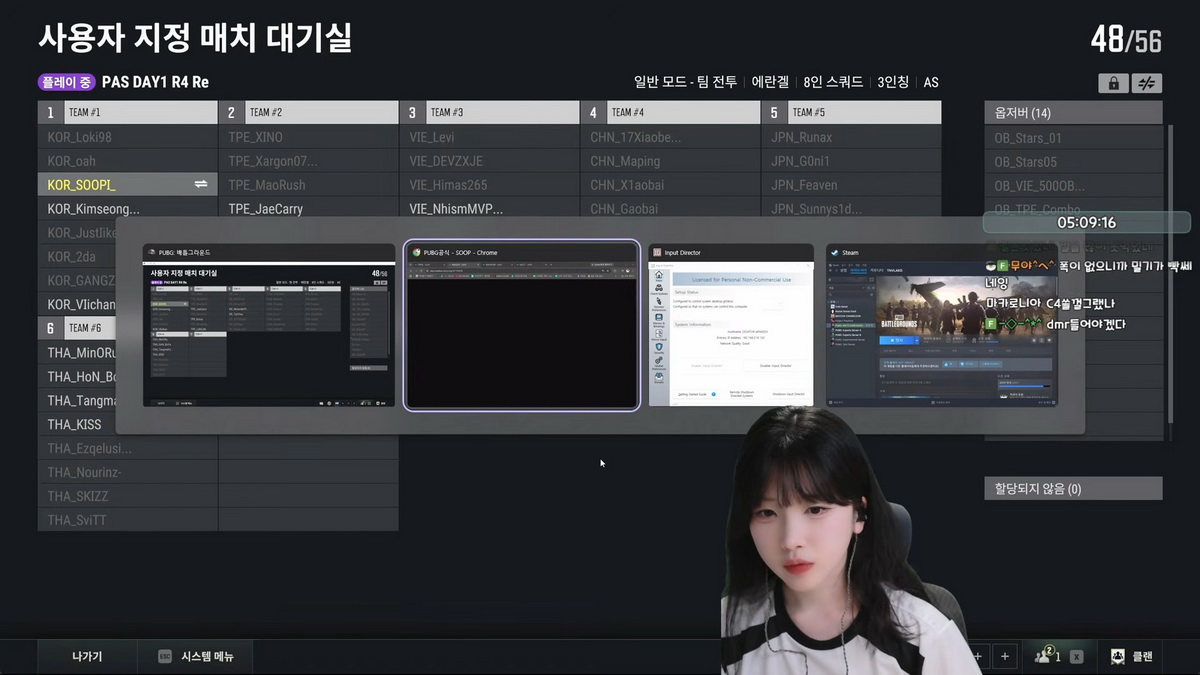
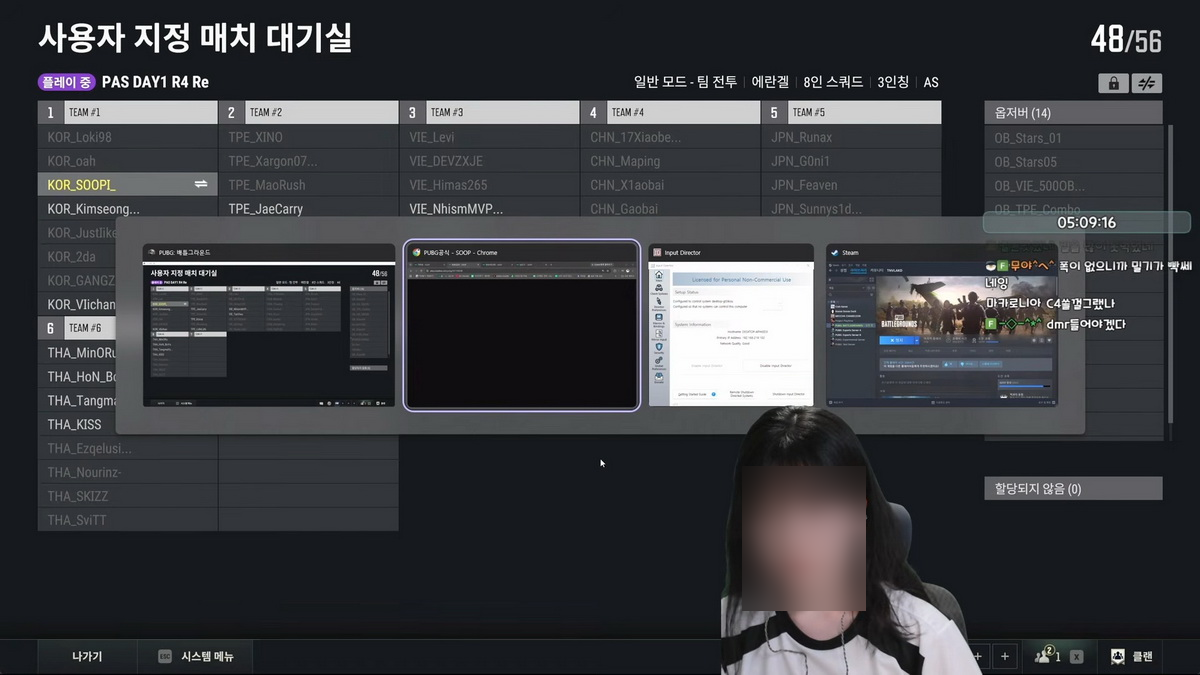
chore: avoid dmca

Changed region(s): [[0.6167, 0.6844, 0.74, 0.9022]]

diff --git a/app/[lang]/sources/page.tsx b/app/[lang]/sources/page.tsx
@@ -182,7 +182,7 @@ export default function SourcesPage() {
         <section id="evidence" className="evidence-archive" aria-labelledby="evidence-title">
           <p className="eyebrow dark-eyebrow">03 / <L vi="TƯ LIỆU DO NGƯỜI DÙNG CUNG CẤP" en="USER-SUPPLIED MATERIAL" /></p>
           <h2 id="evidence-title"><L vi="HÌNH ẢNH ĐÍNH KÈM" en="SUPPLIED IMAGES" /></h2>
-          <p className="evidence-archive-intro"><L vi="Hai ảnh được đưa vào thư mục dự án bởi người dùng. Chúng được lưu nguyên file và hiển thị tại mốc đối chiếu người tham gia. Không có URL gốc hoặc thông tin xác thực ngày chụp, nên chúng được tách khỏi các thông báo chính thức của PUBG." en="The user supplied these two images, which are preserved as provided and shown at the participant comparison milestone. Their original URLs and capture dates have not been independently verified, so they are separate from official PUBG notices." /></p>
+          <p className="evidence-archive-intro"><L vi="Hai ảnh được người dùng cung cấp và đã được làm mờ khuôn mặt của Soopi trước khi hiển thị tại mốc đối chiếu người tham gia. Không có URL gốc hoặc thông tin xác thực ngày chụp, nên chúng được tách khỏi các thông báo chính thức của PUBG." en="The user supplied these two images. Soopi's face has been blurred in the displayed copies. Their original URLs and capture dates have not been independently verified, so they are separate from official PUBG notices." /></p>
           <div className="evidence-archive-grid">
             {evidenceManifest.map((item, index) => (
               <article className="evidence-archive-card" id={index === 0 ? "evidence-soopi-alt-tab" : "evidence-soopi-watching-livestream"} key={item.filename}>
@@ -191,7 +191,7 @@ export default function SourcesPage() {
                   <span><L vi="ẢNH DO NGƯỜI DÙNG CUNG CẤP" en="USER-SUPPLIED IMAGE" /> / {String(index + 1).padStart(2, "0")}</span>
                   <h3>{item.filename}</h3>
                   <p><L vi={index === 0 ? "Màn hình chuyển ứng dụng trong video Soopi; bối cảnh chụp chưa được xác minh độc lập." : "Trang livestream xuất hiện trong video; ảnh tĩnh không tự chứng minh mục đích hoặc vi phạm."} en={index === 0 ? "Application switcher in Soopi-related footage; capture context is unverified." : "A livestream page visible in footage; a still alone does not establish intent or misconduct."} /></p>
-                  <LocalizedAnchor href={item.path} download><L vi="TẢI PNG GỐC ↓" en="DOWNLOAD ORIGINAL PNG ↓" /></LocalizedAnchor>
+                  <LocalizedAnchor href={item.path} download><L vi="TẢI PNG ĐÃ LÀM MỜ ↓" en="DOWNLOAD REDACTED PNG ↓" /></LocalizedAnchor>
                   <div className="archive-checksum">SHA-256 {item.sha256}</div>
                 </div>
               </article>
